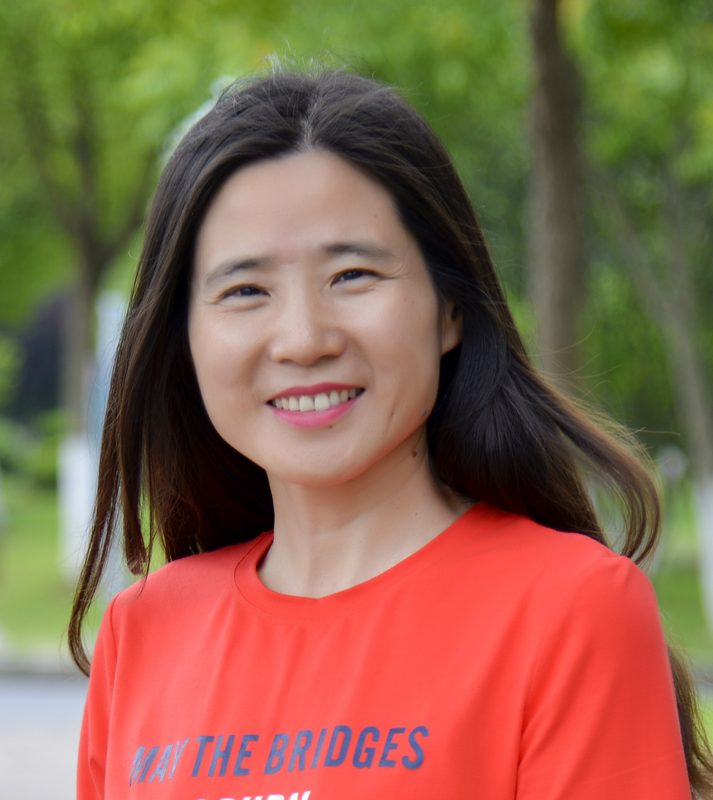
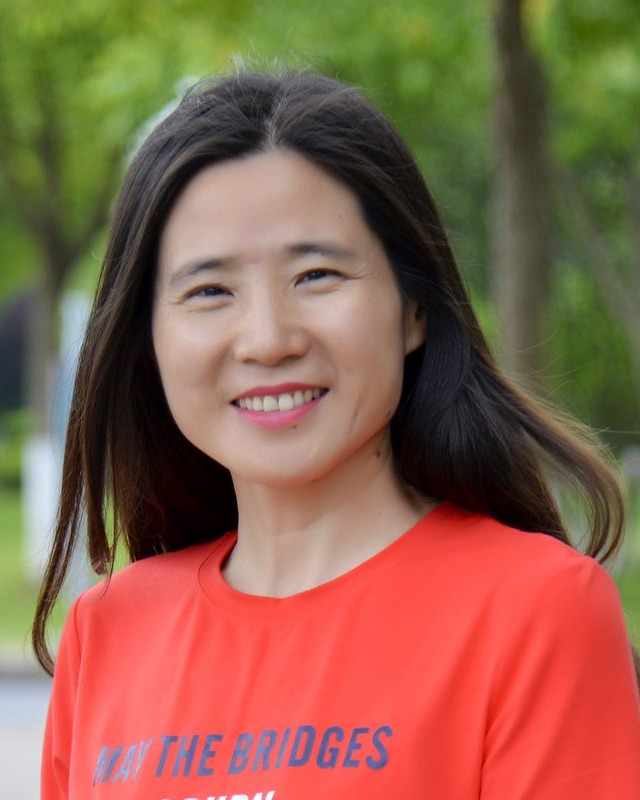
Unify people portraits to a 4:5 display ratio.
Crop remaining avatars to 4:5 and align faculty CSS aspect-ratio with member cards.

diff --git a/styles/pages/people.css b/styles/pages/people.css
@@ -227,7 +227,7 @@
 }
 
 .faculty-summary .profile-image {
-  aspect-ratio: 3 / 4;
+  aspect-ratio: 4 / 5;
 }
 
 .faculty-detail {
@@ -534,7 +534,7 @@
   .faculty-summary .profile-image {
     flex: 0 0 6.75rem;
     width: 6.75rem;
-    aspect-ratio: 3 / 4;
+    aspect-ratio: 4 / 5;
     min-height: 0;
   }
 
